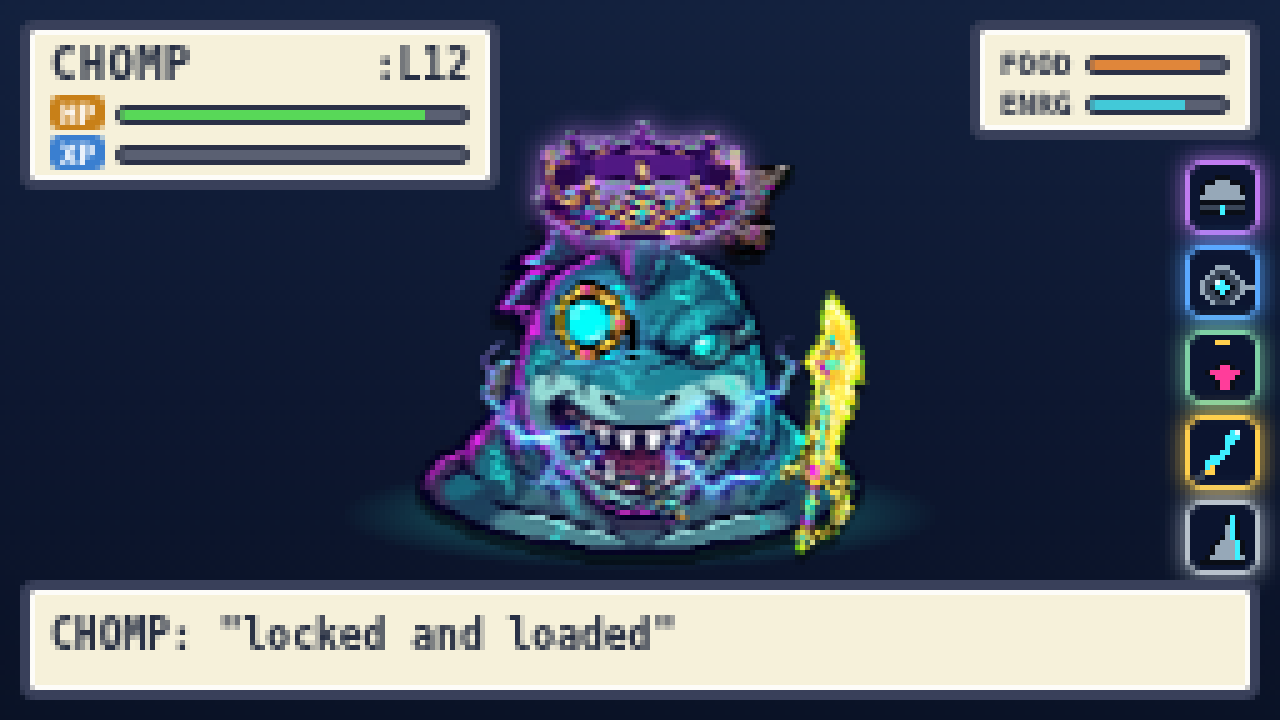
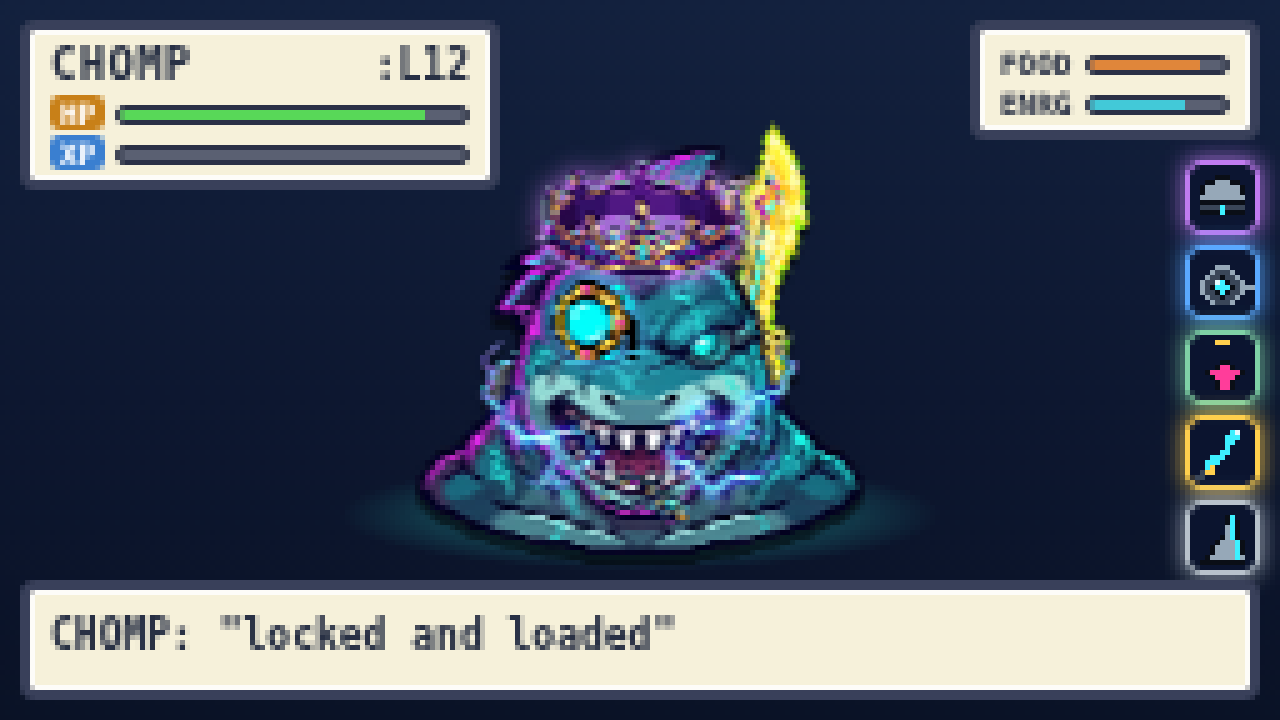
Sling the weapon over the shoulder and seat the crown on the head
- Worn pieces can now render behind the character (new _BEHIND set + a
  back/character/front z-index layering in the shared CSS). The weapon is
  sheathed behind the body so the blade rises over the right shoulder
  samurai-style instead of floating at the side.
- Lowered the crown onto the head (front band across the brow) so it reads as
  worn rather than hovering as a full ring above the head.
- Regenerated docs/equip.png + docs/render-geared.png.

Changed region(s): [[0.4062, 0.1528, 0.6875, 0.7639]]

diff --git a/flippergotchi/view/worn.py b/flippergotchi/view/worn.py
@@ -30,16 +30,18 @@ def _worn_b64(slot: str, rarity: str) -> str | None:
 
 
 # anchor on the forward-facing shark: (left%, top%, width%, rotate-deg).
-#   helmet  -> crown sits centred on top of the head, just above the eyes
+#   helmet  -> crown seats down on the head, front band across the brow
 #   eyepiece-> HUD lens over the viewer-left eye
 #   amulet  -> pendant hangs at the chest, below the mouth
 #   fin     -> augment fin riding the back, behind the dorsal mohawk
-#   weapon  -> glowing blade floats at the right flank, hilt low, blade up
-# z-order (dict order): fin and weapon behind the head furniture, face last.
+#   weapon  -> blade slung over the right shoulder, samurai-style, hilt low
+# pieces in _BEHIND paint behind the character (sheathed on the back); the rest
+# paint in front. Within a layer, dict order is the paint order (later = front).
+_BEHIND = {"weapon", "fin"}
 _WORN_ANCHOR = {
-    "fin":      (49, 0, 32, 15),
-    "weapon":   (70, 44, 40, -36),
-    "helmet":   (26, -6, 49, 0),
+    "fin":      (49, 2, 32, 12),
+    "weapon":   (52, 4, 46, -33),
+    "helmet":   (27, 4, 47, 0),
     "eyepiece": (30, 33, 19, 0),
     "amulet":   (40, 80, 21, 0),
 }
@@ -62,8 +64,13 @@ _GLOW = {
 }
 
 # CSS the host template must include for the worn overlay to animate/anchor.
+# The character img sits at z-index 2; "back" pieces (sheathed weapon, back fin)
+# paint behind it at 1, everything else in front at 3. The charwrap must be its
+# own stacking context (it is -- it's positioned with a z-index).
 CSS = (
-    ".worn{position:absolute;}"
+    ".character{position:relative;z-index:2;}"
+    ".worn{position:absolute;z-index:3;}"
+    ".worn.back{z-index:1;}"
     ".leg{animation:legpulse 1.3s ease-in-out infinite;}"
     "@keyframes legpulse{0%,100%{filter:brightness(1)}50%{filter:brightness(1.35)}}"
 )
@@ -92,7 +99,9 @@ def html(equipped: dict, stage: str) -> str:
         b = _worn_b64(slot, r) if r else None
         if not b:
             continue
-        cls = "worn leg" if r == "legendary" else "worn"
+        cls = "worn back" if slot in _BEHIND else "worn"
+        if r == "legendary":
+            cls += " leg"
         xform = f"rotate({rot}deg)" if rot else ""
         out += (f'<img class="{cls}" style="left:{L}%;top:{T + dy}%;'
                 f'width:{Wd * sc}%;transform:{xform};'

diff --git a/flippergotchi/view/equip_screen.py b/flippergotchi/view/equip_screen.py
@@ -43,8 +43,9 @@ _HTML = """<!doctype html>
   .charwrap{{position:absolute;left:60px;bottom:33px;transform:translateX(-50%);
     height:82px;display:inline-block;z-index:1;
     filter:drop-shadow(0 2px 0 #0008);}}
-  .character{{height:82px;display:block;}}
-  .worn{{position:absolute;}}
+  .character{{height:82px;display:block;position:relative;z-index:2;}}
+  .worn{{position:absolute;z-index:3;}}
+  .worn.back{{z-index:1;}}
   .leg{{animation:legpulse 1.3s ease-in-out infinite;}}
   @keyframes legpulse{{0%,100%{{filter:brightness(1)}}50%{{filter:brightness(1.35)}}}}
   .title{{position:absolute;top:4px;left:4px;font-size:8px;font-weight:800;

diff --git a/flippergotchi/view/flipctl.py b/flippergotchi/view/flipctl.py
@@ -76,8 +76,9 @@ _HTML = """<!doctype html>
   .charwrap{{position:absolute;left:50%;bottom:33px;transform:translateX(-50%);
     height:82px;display:inline-block;z-index:1;
     filter:drop-shadow(0 2px 0 #0008);}}
-  .character{{height:82px;display:block;}}
-  .worn{{position:absolute;}}
+  .character{{height:82px;display:block;position:relative;z-index:2;}}
+  .worn{{position:absolute;z-index:3;}}
+  .worn.back{{z-index:1;}}
   .leg{{animation:legpulse 1.3s ease-in-out infinite;}}
   @keyframes legpulse{{0%,100%{{filter:brightness(1)}}50%{{filter:brightness(1.35)}}}}
   .box{{position:absolute;background:#f6f1da;border:2px solid #39405a;border-radius:3px;